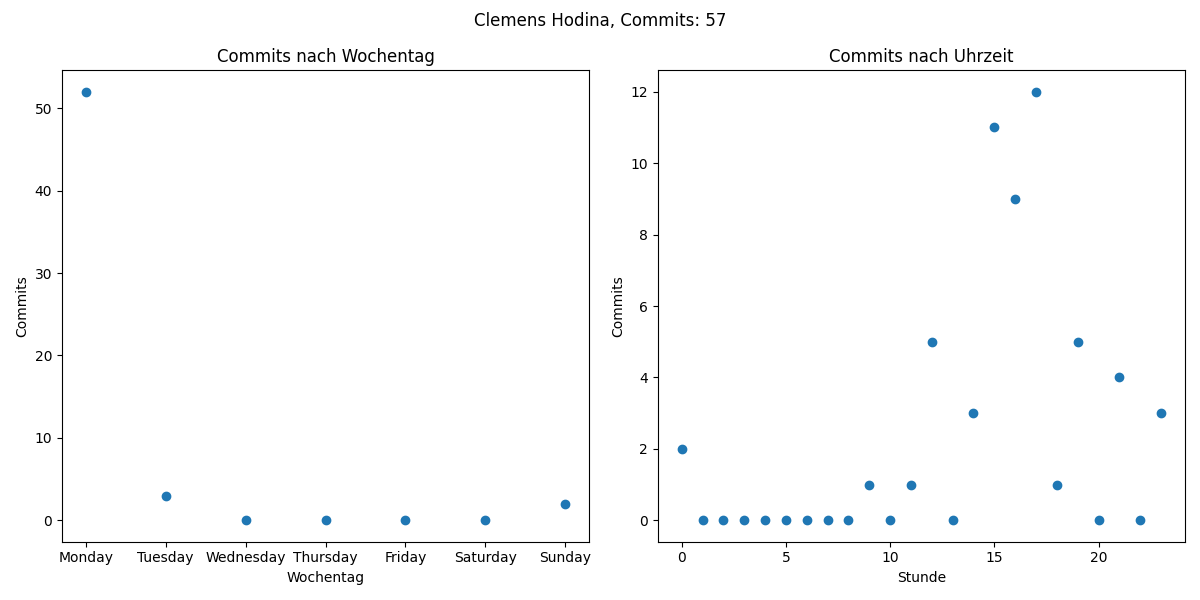
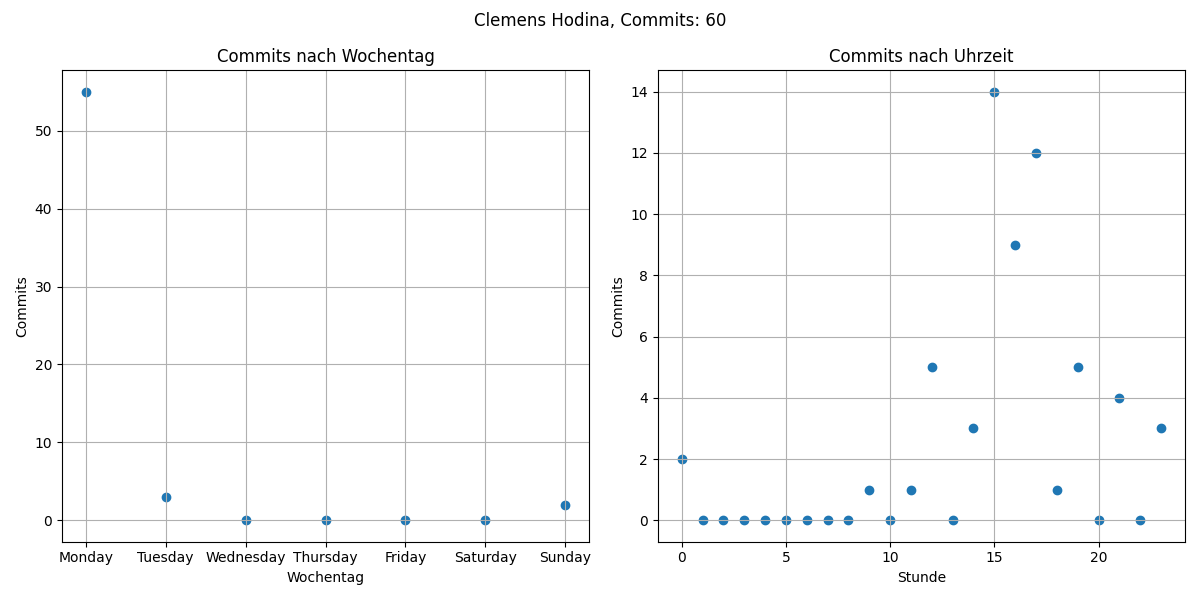
upgraded logging

diff --git a/5_Klasse_python/ue3_plot/statistik.py b/5_Klasse_python/ue3_plot/statistik.py
@@ -1,6 +1,20 @@
+import logging
 import subprocess
 import datetime
 import matplotlib.pyplot as plt
+
+def setup_logging(logfile, verbose, quiet):
+    if verbose and quiet:
+        raise ValueError("Verbose und Quiet können nicht gleichzeitig aktiviert sein.")
+
+    if verbose:
+        log_level = logging.DEBUG
+    elif quiet:
+        log_level = logging.WARNING
+    else:
+        log_level = logging.INFO
+
+    logging.basicConfig(filename=logfile, level=log_level, format='%(asctime)s - %(levelname)s - %(message)s')
 
 def parse_git_log(git_folder):
     """
@@ -14,6 +28,7 @@ def parse_git_log(git_folder):
     output, _ = process.communicate()
     commits = output.strip().split('\n')
     commit_times = [datetime.datetime.fromisoformat(commit) for commit in commits]
+    logging.info("Commit times read!")
     return commit_times
 
 
@@ -39,33 +54,38 @@ def plot_commit_activity(commit_times):
     axes[0].set_title('Commits nach Wochentag')
     axes[0].set_xlabel('Wochentag')
     axes[0].set_ylabel('Commits')
+    axes[0].grid(True)
+    logging.info("left graphic made")
 
     axes[1].scatter(range(24), hour_counts)
     axes[1].set_title('Commits nach Uhrzeit')
     axes[1].set_xlabel('Stunde')
     axes[1].set_ylabel('Commits')
+    axes[1].grid(True)
+    logging.info("right graphic made")
 
     plt.tight_layout()
+    #plt.grid(True)
     plt.savefig('git_stats_hodina.png')
     plt.show()
+    logging.info("graph can be seen")
 
 if __name__ == "__main__":
     import argparse
-
     parser = argparse.ArgumentParser(description="Git Statistics")
     parser.add_argument("git_folder", help="Path to the Git repository folder")
     parser.add_argument("-v", "--verbose", action="store_true", help="Verbose mode")
     parser.add_argument("-q", "--quiet", action="store_true", help="Quiet mode")
-    parser.add_argument("--log", help="Log file path")
+    parser.add_argument("-l", "--logfile", help="Log file path")
     args = parser.parse_args()
 
-    if args.verbose:
-        print("Verbose mode enabled")
-    if args.quiet:
-        print("Quiet mode enabled")
+    logging.info("Script started!", args)
+
+    setup_logging(args.logfile, args.verbose, args.quiet)
 
     commit_times = parse_git_log(args.git_folder)
     plot_commit_activity(commit_times)
+    logging.info("Script finished succesfully!")
 
 
 

diff --git a/5_Klasse_python/ue3_plot/plot1.py b/5_Klasse_python/ue3_plot/plot1.py
@@ -65,11 +65,11 @@ arrow_head_width = 0.02
 arrow_head_length = 5
 
 
-plt.annotate('', xy=(max(X) + arrow_length, 0), xytext=(max(X), 0),
-             arrowprops=dict(arrowstyle='->', **arrow_format))
+#plt.annotate('', xy=(max(X) + arrow_length, 0), xytext=(max(X), 0),
+#             arrowprops=dict(arrowstyle='->', **arrow_format))
 
-plt.annotate('', xy=(0, max(C) + arrow_length), xytext=(0, max(C)),
-             arrowprops=dict(arrowstyle='->', **arrow_format))
+#plt.annotate('', xy=(0, max(C) + arrow_length), xytext=(0, max(C)),
+#             arrowprops=dict(arrowstyle='->', **arrow_format))
 
 # bei neueren matplot versionen
 ax.set_axisbelow(True)
